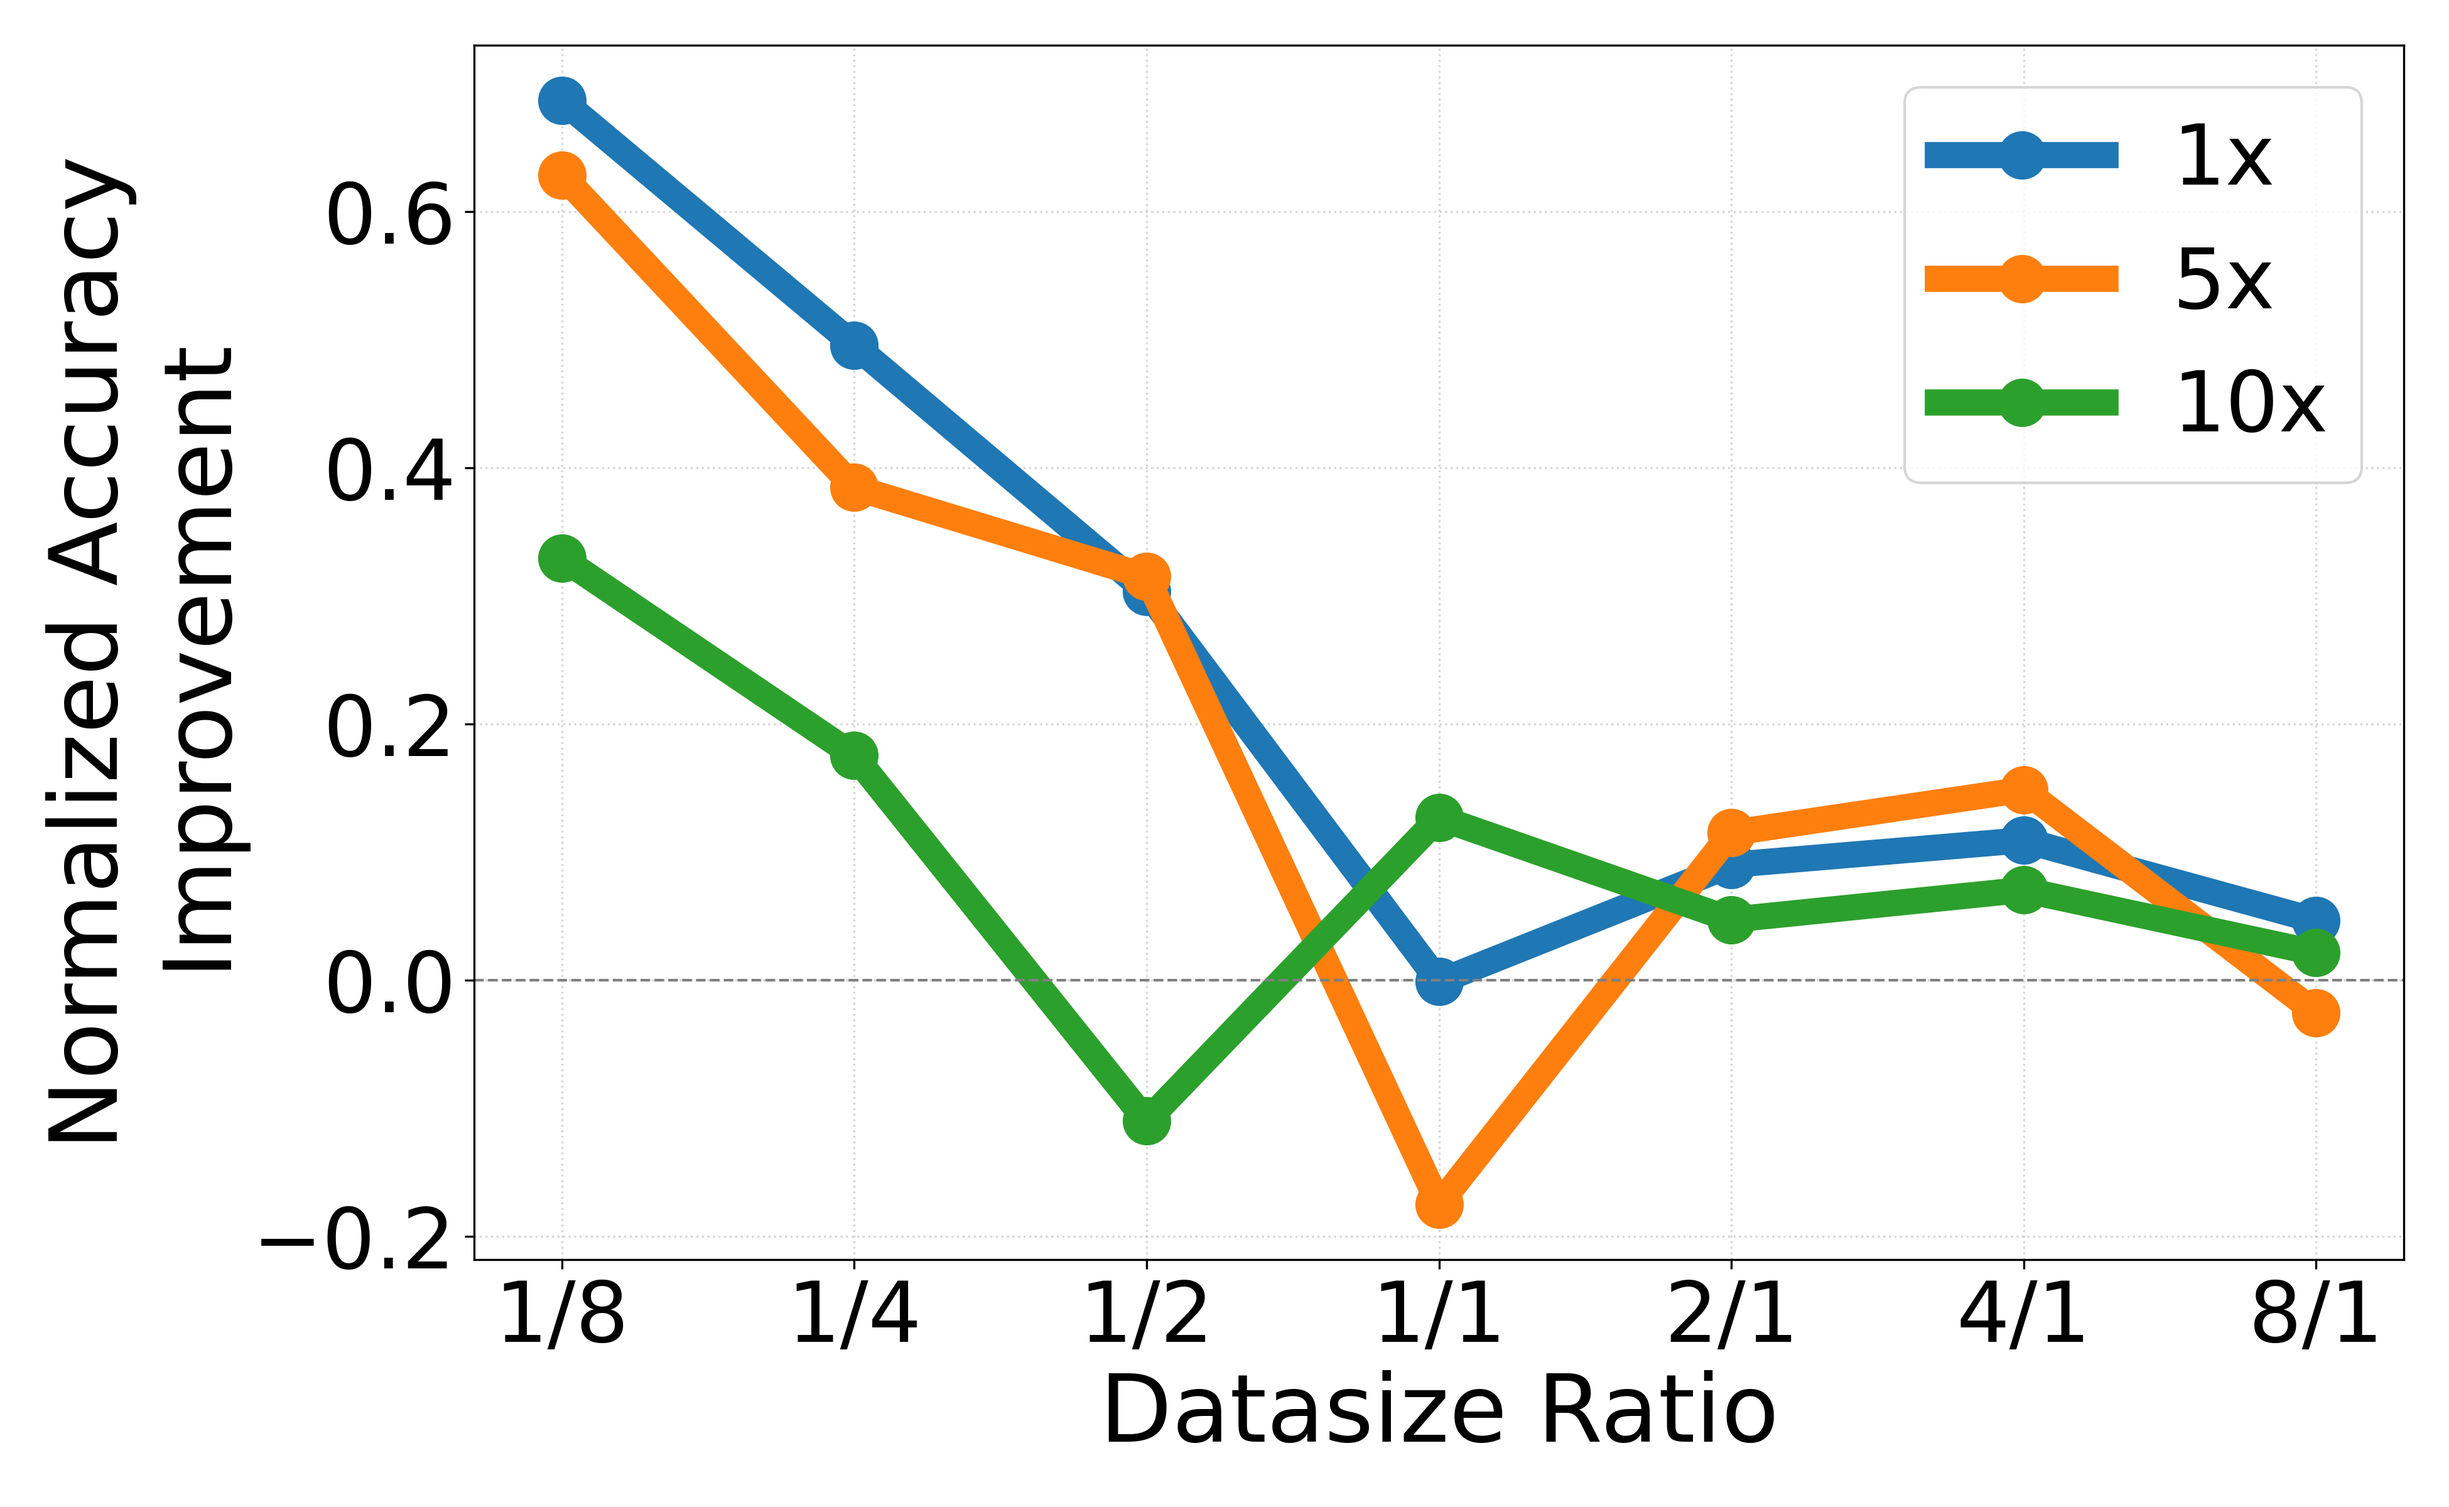
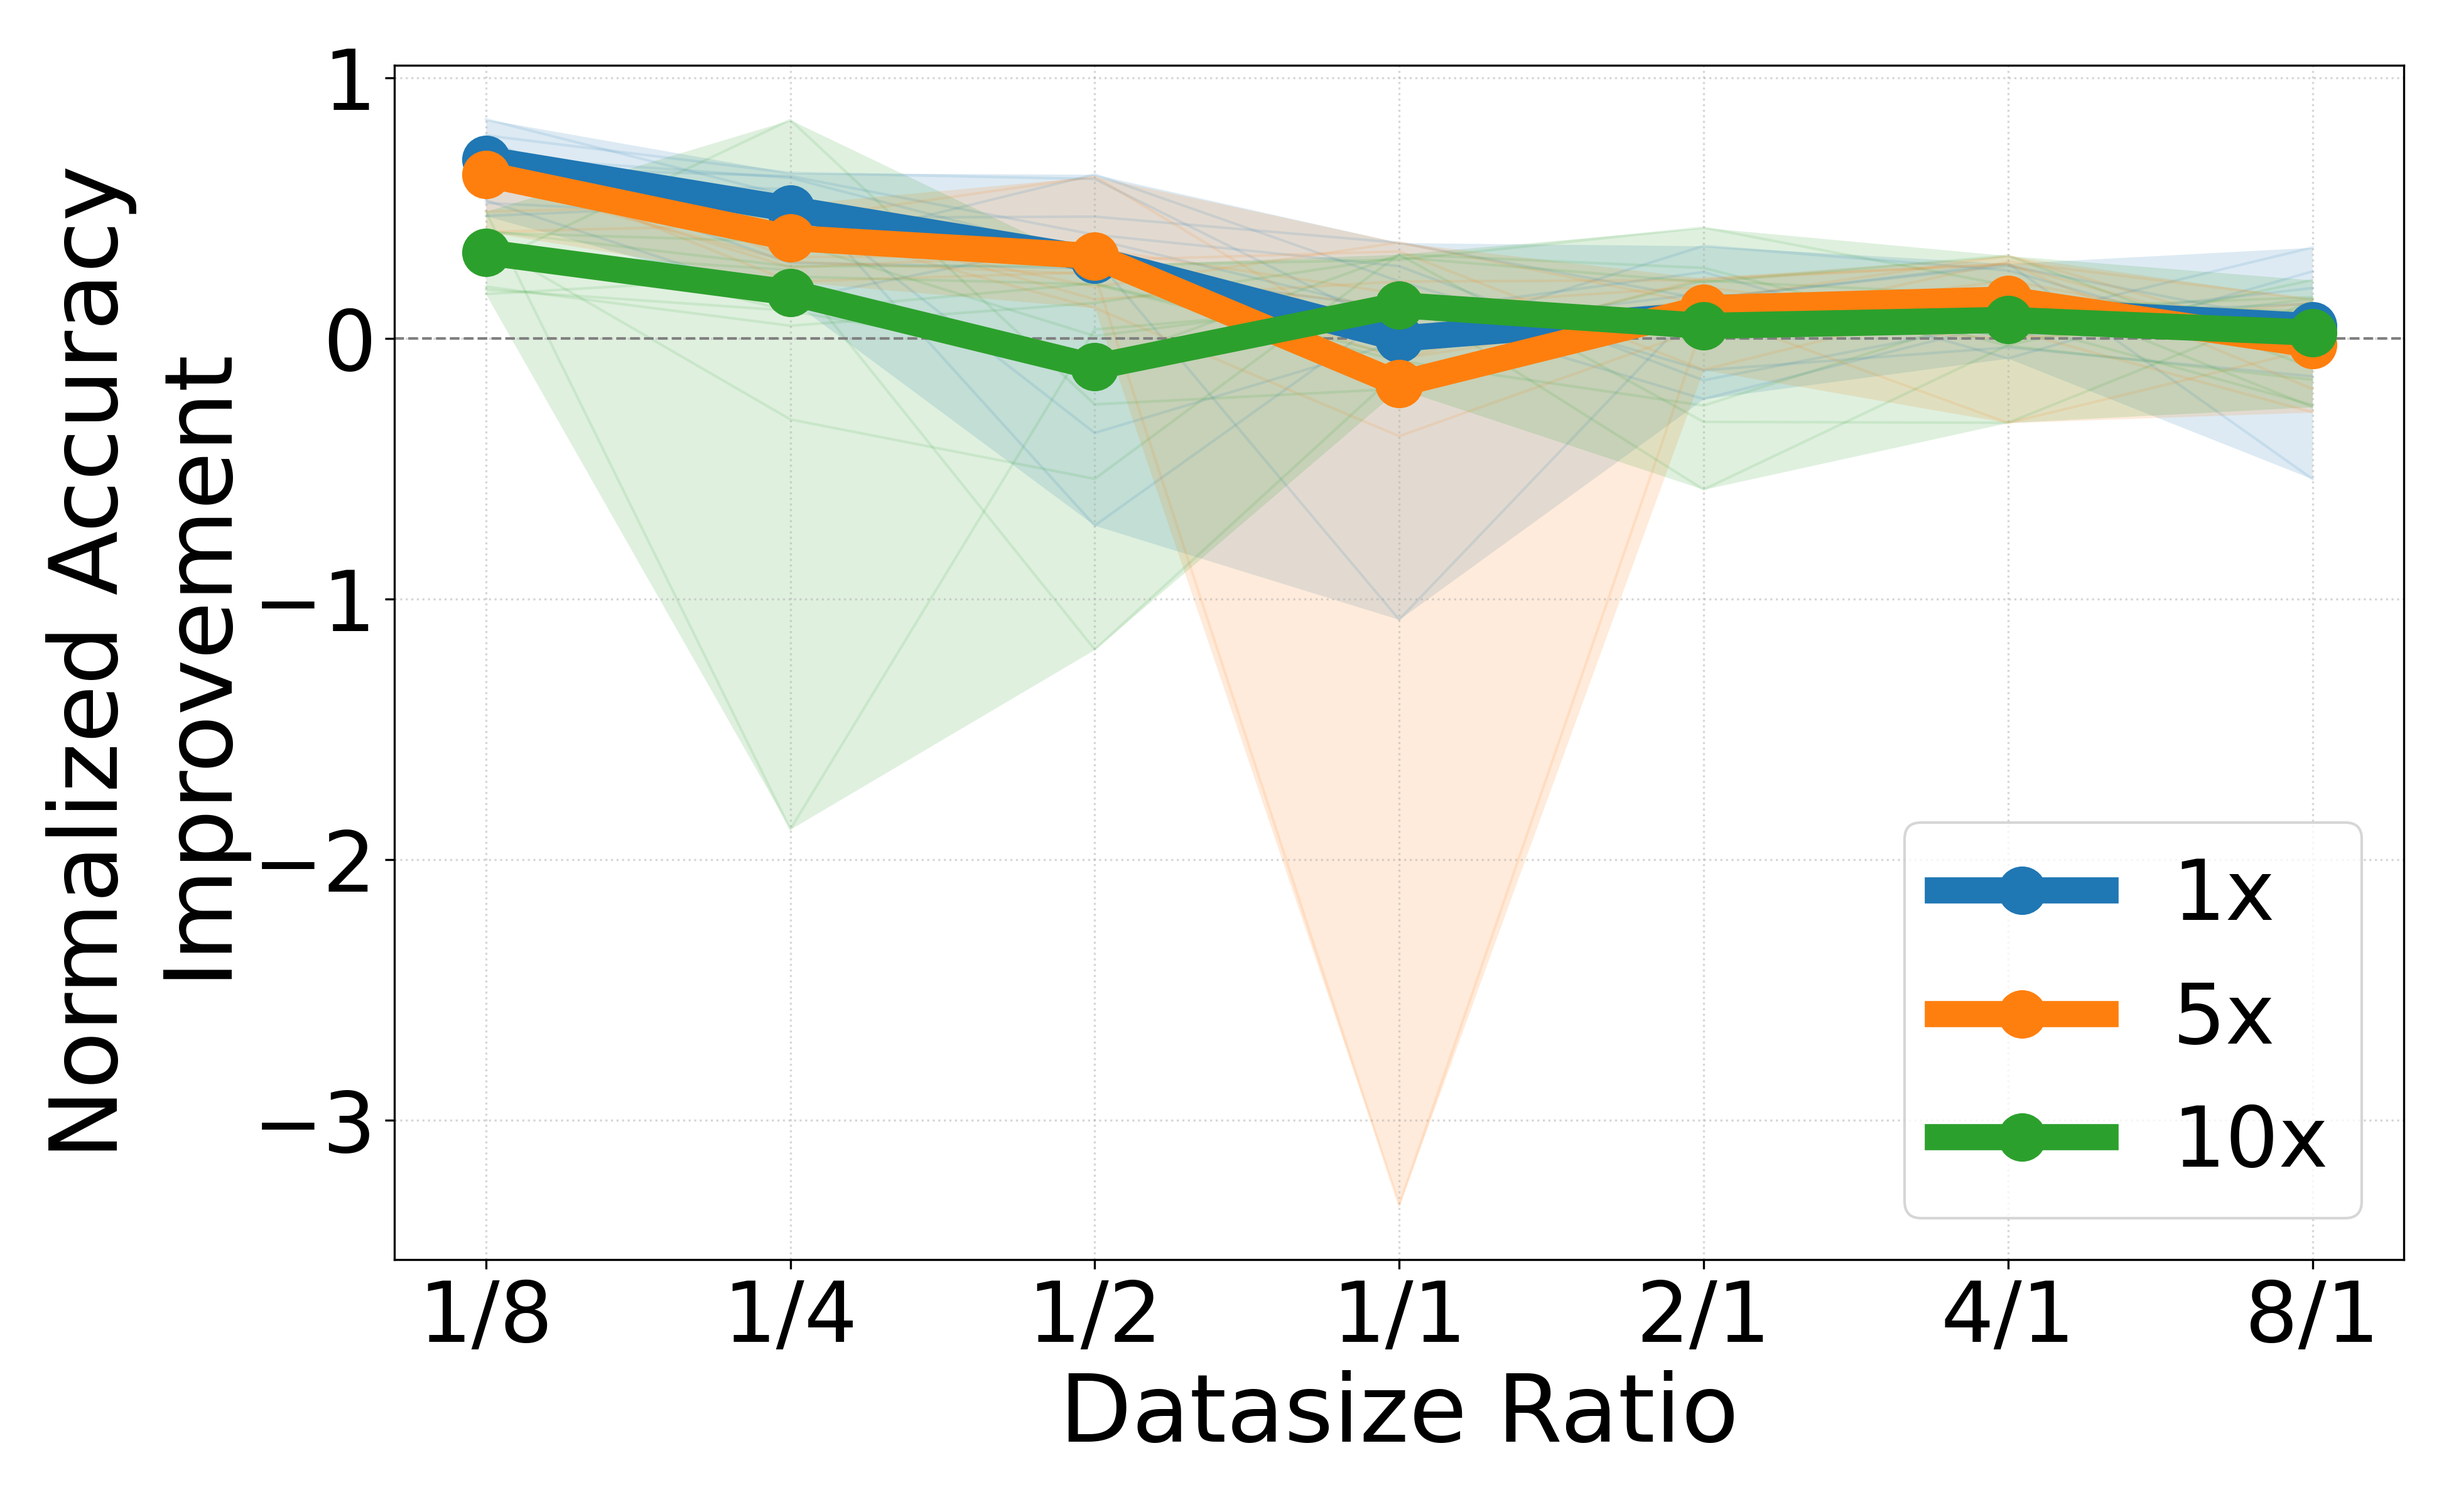
ready for run full privacy with half ds

diff --git a/flower_fl_traffic/utils/plot_union_curves.py b/flower_fl_traffic/utils/plot_union_curves.py
@@ -1,4 +1,6 @@
 import argparse
+import glob
+import json
 from pathlib import Path
 
 import matplotlib.pyplot as plt
@@ -8,20 +10,116 @@ import pandas as pd
 RATIO_ORDER = [0.125, 0.25, 0.5, 1.0, 2.0, 4.0, 8.0]
 RATIO_LABELS = ["1/8", "1/4", "1/2", "1/1", "2/1", "4/1", "8/1"]
 
+REQUIRED_COLS = {"dataset_key", "ratio", "local_p1_mean", "local_p2_mean", "fed_p1_mean", "fed_p2_mean"}
+
+DEFAULT_SEED_GLOB = "results/multi-split/seed_*.json"
+
 
 def load_curve_data(csv_path: Path) -> pd.DataFrame:
     df = pd.read_csv(csv_path)
 
-    required_cols = {"dataset_key", "ratio", "local_p1_mean", "local_p2_mean", "fed_p1_mean", "fed_p2_mean"}
-    missing_cols = required_cols - set(df.columns)
+    missing_cols = REQUIRED_COLS - set(df.columns)
     if missing_cols:
         raise ValueError(f"Missing columns in {csv_path}: {sorted(missing_cols)}")
 
     return df
 
 
-def plot_union(input_file: Path, output_file: Path, metric: str = "fed_p1_mean") -> None:
+def normalized_improvement(df: pd.DataFrame) -> pd.Series:
+    return (df["fed_p1_mean"] - df["local_p1_mean"]) / (1 - df["local_p1_mean"])
+
+
+def describe_structure(obj, depth: int = 0, max_depth: int = 3) -> str:
+    """Short structural summary of a JSON object (for error messages)."""
+    pad = "  " * depth
+    if depth >= max_depth:
+        return f"{pad}...\n"
+    if isinstance(obj, dict):
+        out = f"{pad}dict with keys: {list(obj.keys())[:10]}\n"
+        for k in list(obj.keys())[:2]:
+            out += f"{pad} [{k!r}] ->\n" + describe_structure(obj[k], depth + 2, max_depth)
+        return out
+    if isinstance(obj, list):
+        out = f"{pad}list of {len(obj)} items\n"
+        if obj:
+            out += describe_structure(obj[0], depth + 1, max_depth)
+        return out
+    return f"{pad}{type(obj).__name__}: {obj!r}\n"
+
+
+def load_seed_json(path: str) -> pd.DataFrame:
+    """Load one seed_<n>.json into a flat DataFrame with the required columns.
+
+    Expected structure:
+    {"seed": 0, "results": {"1x_r0.125": {"dataset_key": 1, "ratio": 0.125,
+        "local": {"player1": ..., "player2": ...},
+        "federated": {"player1": ..., "player2": ...}}, ...}}
+    """
+    with open(path) as f:
+        data = json.load(f)
+
+    rows = []
+    try:
+        for entry in data["results"].values():
+            rows.append(
+                {
+                    "dataset_key": entry["dataset_key"],
+                    "ratio": entry["ratio"],
+                    "local_p1_mean": entry["local"]["player1"],
+                    "local_p2_mean": entry["local"]["player2"],
+                    "fed_p1_mean": entry["federated"]["player1"],
+                    "fed_p2_mean": entry["federated"]["player2"],
+                }
+            )
+    except (KeyError, TypeError) as e:
+        raise ValueError(
+            f"{path}: unexpected JSON structure ({e!r})\n{describe_structure(data)}"
+        )
+
+    return pd.DataFrame(rows)
+
+
+def load_seed_curves(seed_glob: str) -> pd.DataFrame | None:
+    files = sorted(glob.glob(seed_glob))
+    if not files:
+        return None
+
+    frames = []
+    for i, f in enumerate(files):
+        d = load_seed_json(f).copy()
+        d["seed_id"] = i
+        d["file"] = Path(f).name
+        d["y"] = normalized_improvement(d)
+        frames.append(d)
+    print(f"Loaded {len(files)} seed files.")
+    return pd.concat(frames, ignore_index=True)
+
+
+# (dataset_key, ratio) points for which the lowest-value file is reported
+REPORT_POINTS = [(5, 1.0), (1, 1), (10, 0.5)]
+
+
+def report_lowest_minimum(seed_df: pd.DataFrame, dataset_labels: dict) -> None:
+    """Print which seed file gave the lowest value at selected (dataset, ratio) points."""
+    valid = seed_df.dropna(subset=["y"])
+
+    print("\nSeed file with the lowest value:")
+    for key, ratio in REPORT_POINTS:
+        s = valid[(valid["dataset_key"] == key) & ((valid["ratio"] - ratio).abs() < 1e-9)]
+        name = f"{dataset_labels.get(key, key)} {ratio:g}"
+        if s.empty:
+            print(f"  {name}: no data")
+            continue
+        r = s.loc[s["y"].idxmin()]
+        print(f"  {name}: {r['file']}  (y = {r['y']:.4f})")
+    print()
+
+
+def plot_union(input_file: Path, output_file: Path, seed_glob: str = DEFAULT_SEED_GLOB) -> None:
     df = load_curve_data(input_file)
+    seed_df = load_seed_curves(seed_glob)
+    if seed_df is None:
+        print(f"Warning: no per-seed files found for '{seed_glob}', plotting without spread band.")
 
     plt.rcParams.update(
         {
@@ -36,25 +134,47 @@ def plot_union(input_file: Path, output_file: Path, metric: str = "fed_p1_mean")
     plt.figure(figsize=(13, 8))
 
     dataset_labels = {1: "1x", 5: "5x", 10: "10x"}
+    x = list(range(len(RATIO_ORDER)))
+
+    if seed_df is not None:
+        report_lowest_minimum(seed_df, dataset_labels)
 
     for key in sorted(df["dataset_key"].unique()):
         label = dataset_labels.get(key, str(key))
         subset = df[df["dataset_key"] == key].copy()
         subset = subset.set_index("ratio").reindex(RATIO_ORDER).reset_index()
 
-        y = (subset["fed_p1_mean"] - subset["local_p1_mean"]) / (1 - subset["local_p1_mean"])
+        y = normalized_improvement(subset)
 
-        plt.plot(
-            RATIO_LABELS,
+        (line,) = plt.plot(
+            x,
             y,
             marker="o",
             markersize=16,
             markeredgewidth=2.5,
             linewidth=10,
             label=label,
+            zorder=3,
         )
+        color = line.get_color()
+
+        if seed_df is not None:
+            s = seed_df[seed_df["dataset_key"] == key]
+
+            # Faint band: min-max across seeds
+            spread = s.groupby("ratio")["y"].agg(["min", "max"]).reindex(RATIO_ORDER)
+            plt.fill_between(
+                x, spread["min"], spread["max"],
+                color=color, alpha=0.15, linewidth=0, zorder=1,
+            )
+
+            # Very faint individual seed curves
+            for _, sd in s.groupby("seed_id"):
+                sd = sd.set_index("ratio").reindex(RATIO_ORDER)
+                plt.plot(x, sd["y"], color=color, alpha=0.12, linewidth=1, zorder=2)
 
     plt.axhline(0.0, color="gray", linestyle="--", linewidth=1)
+    plt.xticks(x, RATIO_LABELS)
     plt.xlabel("Datasize Ratio")
     plt.ylabel("Normalized Accuracy\nImprovement")
     plt.grid(True, linestyle=":", alpha=0.5)
@@ -67,10 +187,16 @@ def plot_union(input_file: Path, output_file: Path, metric: str = "fed_p1_mean")
 
 
 def main() -> None:
-    input_path = Path("results/multi-split/averaged_results.csv")
-    output_path = Path("results/multi-split/averaged_rcurves.png")
+    parser = argparse.ArgumentParser()
+    parser.add_argument("--input", default="results/multi-split/averaged_results.csv")
+    parser.add_argument("--output", default="results/multi-split/averaged_rcurves.png")
+    parser.add_argument("--seed-glob", default=DEFAULT_SEED_GLOB)
+    args = parser.parse_args()
 
-    plot_union(input_path, output_path, metric="fed_p1_mean")
+    input_path = Path(args.input)
+    output_path = Path(args.output)
+
+    plot_union(input_path, output_path, seed_glob=args.seed_glob)
 
     print(f"Saved: {output_path}")
 

diff --git a/flower_fl_traffic/utils/plot_learning_curve.py b/flower_fl_traffic/utils/plot_learning_curve.py
@@ -1,3 +1,5 @@
+import os
+import glob
 import pandas as pd
 import matplotlib.pyplot as plt
 import seaborn as sns
@@ -5,7 +7,23 @@ import seaborn as sns
 # Set style for academic plotting
 sns.set_theme(style="whitegrid", context="talk")
 
-def generate_plots(csv_file="data_saturation_drug_discovery.csv"):
+RESULTS_DIR = "results/baseline"
+
+
+def load_seed_curves(results_dir=RESULTS_DIR):
+    """Load the per-seed learning curves (seed_<n>_learning_curve.csv)."""
+    files = sorted(glob.glob(os.path.join(results_dir, "seed_*_learning_curve.csv")))
+    curves = []
+    for f in files:
+        d = pd.read_csv(f).sort_values("percentage").set_index("percentage")["accuracy"]
+        curves.append(d)
+    if not curves:
+        return None
+    return pd.concat(curves, axis=1)  # rows: percentage, columns: seeds
+
+
+def generate_plots(csv_file="data_saturation_drug_discovery.csv",
+                   output_path=os.path.join(RESULTS_DIR, "plot_accuracy.png")):
     # Load the data
     try:
         df = pd.read_csv(csv_file)
@@ -15,21 +33,53 @@ def generate_plots(csv_file="data_saturation_drug_discovery.csv"):
 
     # Sort values by percentage ascending (5 -> 100)
     df = df.sort_values(by="percentage")
+
+    seeds_df = load_seed_curves()
+
     # ==========================================
-    # Plot: Accuracy only
+    # Plot: Accuracy with seed-to-seed spread
     # ==========================================
     plt.figure(figsize=(10, 6))
-    plt.plot(df['percentage'], df['mean_accuracy'], color='tab:blue', marker='o', linewidth=2.5, label='Accuracy')
-    plt.xlabel('Dataset Size (%)', fontweight='bold')
-    plt.ylabel('Global Accuracy', fontweight='bold')
-    plt.title('Model Capacity Saturation:\nAccuracy over Dataset Size', pad=20, fontweight='bold')
+
+    if seeds_df is not None:
+        n_seeds = seeds_df.shape[1]
+        # Faint band: min-max across all seeds
+        plt.fill_between(
+            seeds_df.index, seeds_df.min(axis=1), seeds_df.max(axis=1),
+            color="tab:blue", alpha=0.15, linewidth=0,
+            label=f"Seed spread (min–max, {n_seeds} seeds)",
+        )
+        # Very faint individual seed curves
+        for col in seeds_df.columns:
+            plt.plot(seeds_df.index, seeds_df[col],
+                     color="tab:blue", alpha=0.15, linewidth=0.8)
+    else:
+        print("Warning: per-seed CSVs not found, falling back to std band.")
+        if "std_accuracy" in df.columns:
+            plt.fill_between(
+                df["percentage"],
+                df["mean_accuracy"] - df["std_accuracy"],
+                df["mean_accuracy"] + df["std_accuracy"],
+                color="tab:blue", alpha=0.15, linewidth=0, label="±1 Std. Dev.",
+            )
+
+    plt.plot(df["percentage"], df["mean_accuracy"], color="tab:blue",
+             marker="o", linewidth=2.5, label="Mean Accuracy")
+
+    plt.xlabel("Dataset Size (%)", fontweight="bold")
+    plt.ylabel("Global Accuracy", fontweight="bold")
+    plt.title("Model Capacity Saturation:\nAccuracy over Dataset Size",
+              pad=20, fontweight="bold")
     plt.ylim(0.8, 1.0)
     plt.grid(True)
     plt.legend()
     plt.tight_layout()
-    plt.savefig("results/baseline/plot_accuracy.png", dpi=300, bbox_inches='tight')
-    print("Saved: plot_accuracy.png")
+
+    os.makedirs(os.path.dirname(output_path), exist_ok=True)
+    plt.savefig(output_path, dpi=300, bbox_inches="tight")
+    print(f"Saved: {output_path}")
     plt.close()
 
+
 if __name__ == "__main__":
-    generate_plots( "results/baseline/averaged_learning_curve.csv")
+    generate_plots(os.path.join(RESULTS_DIR, "averaged_learning_curve.csv"))

diff --git a/flower_fl_traffic/main.py b/flower_fl_traffic/main.py
@@ -123,7 +123,7 @@ def run_pipeline(config: DictConfig):
     hours, rem = divmod(duration_seconds, 3600)
     minutes, seconds = divmod(rem, 60)
 
-    #     print(f"⏱ Total Execution Time: {int(hours)}h {int(minutes)}m {seconds:.2f}s")
+    print(f"⏱ Total Execution Time: {int(hours)}h {int(minutes)}m {seconds:.2f}s")
 
 if __name__ == "__main__":
 
